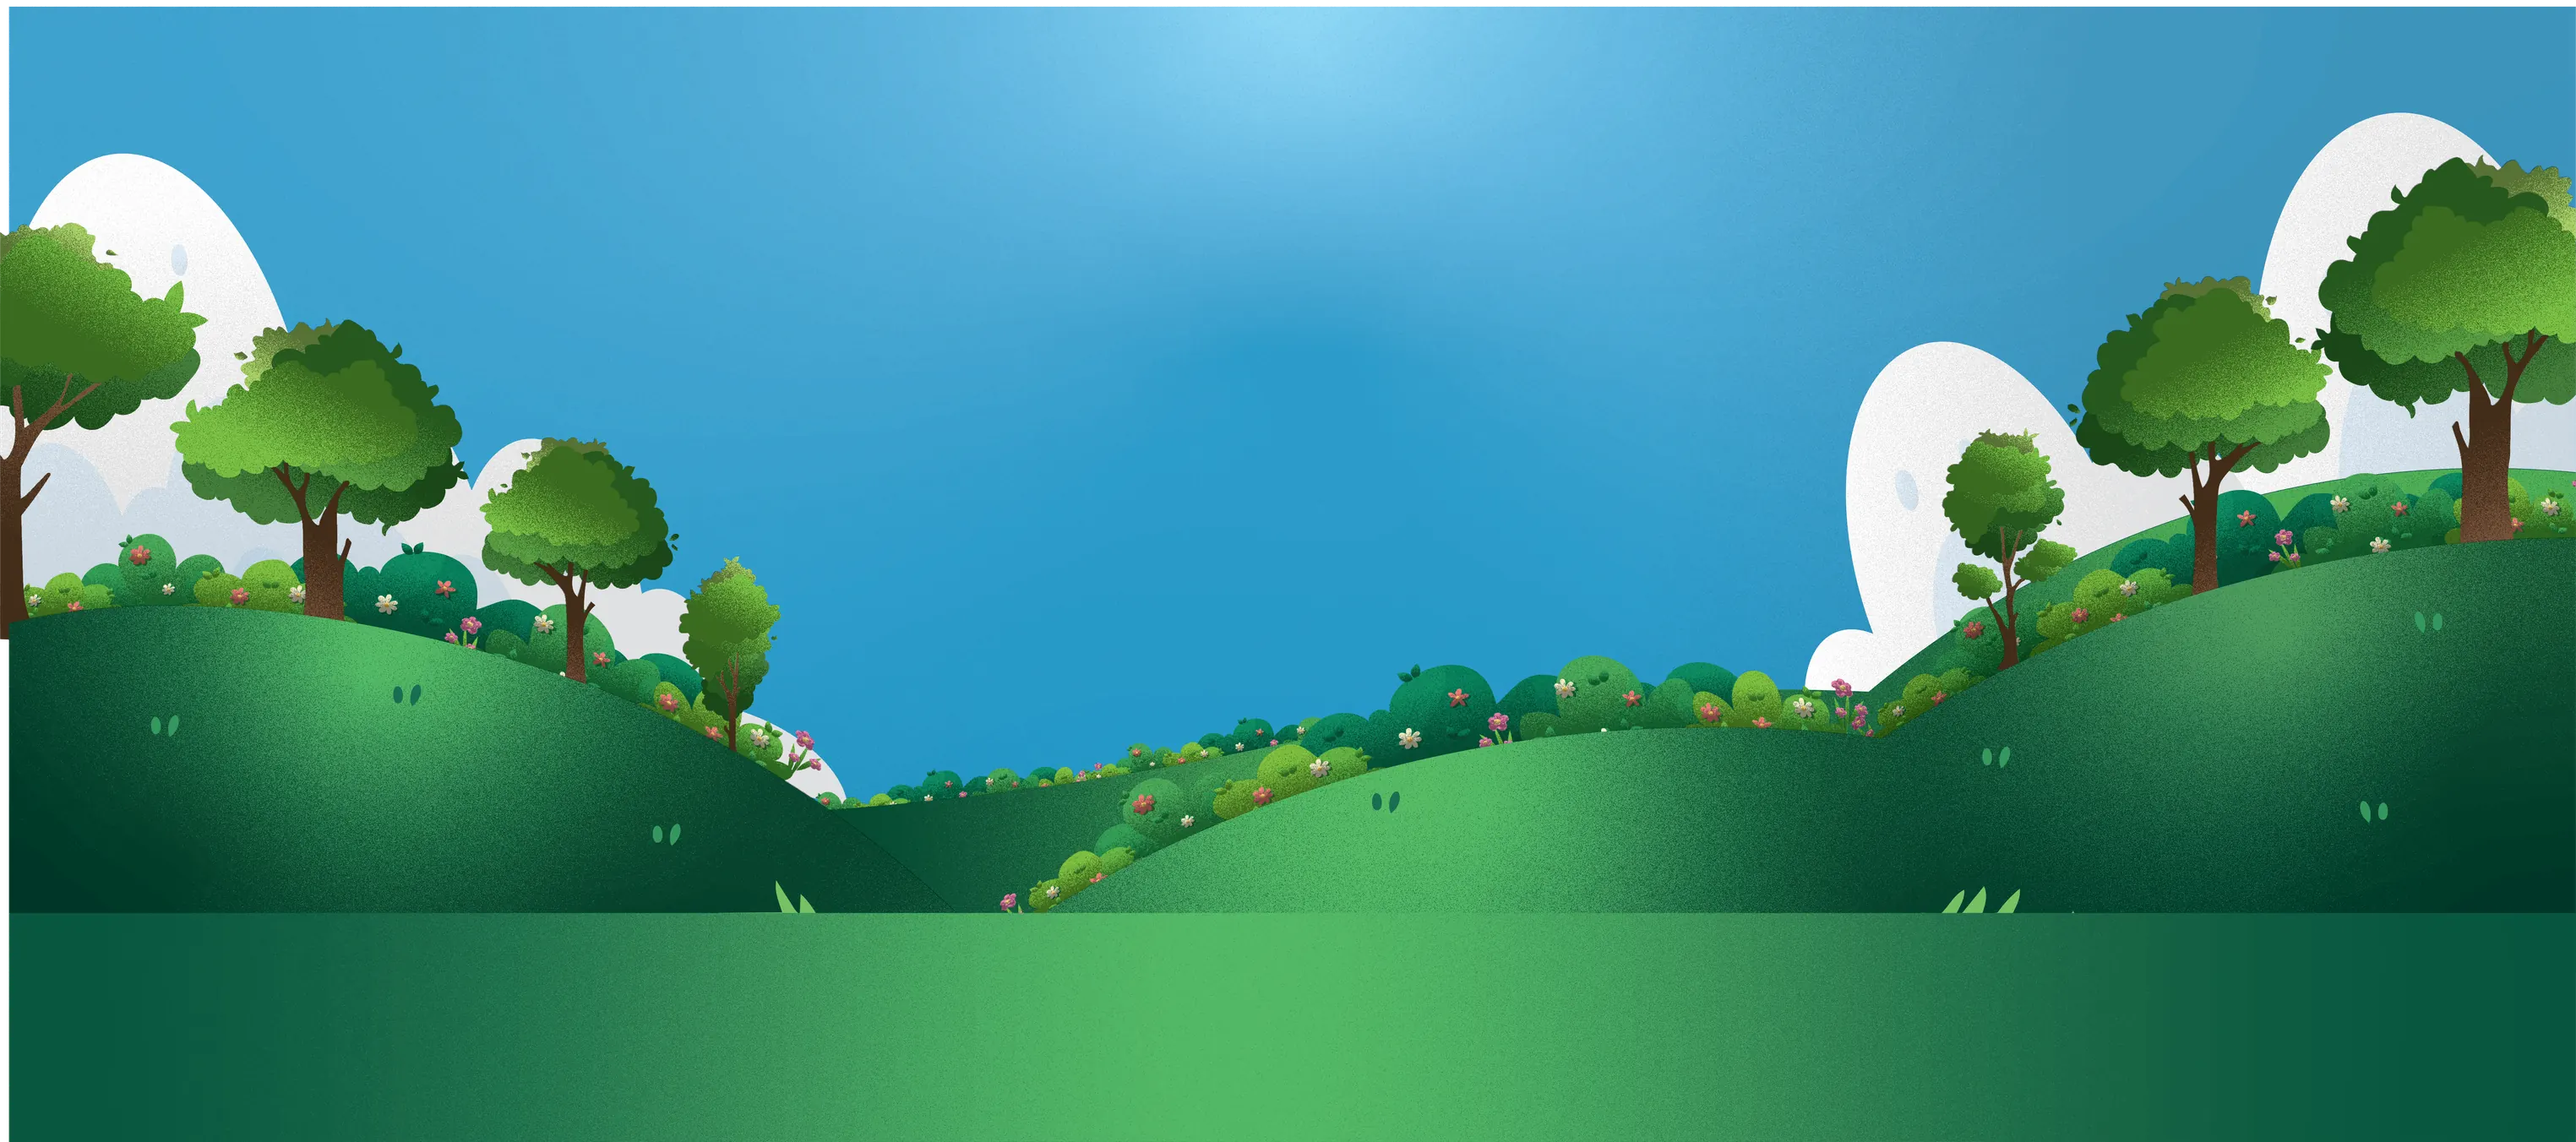
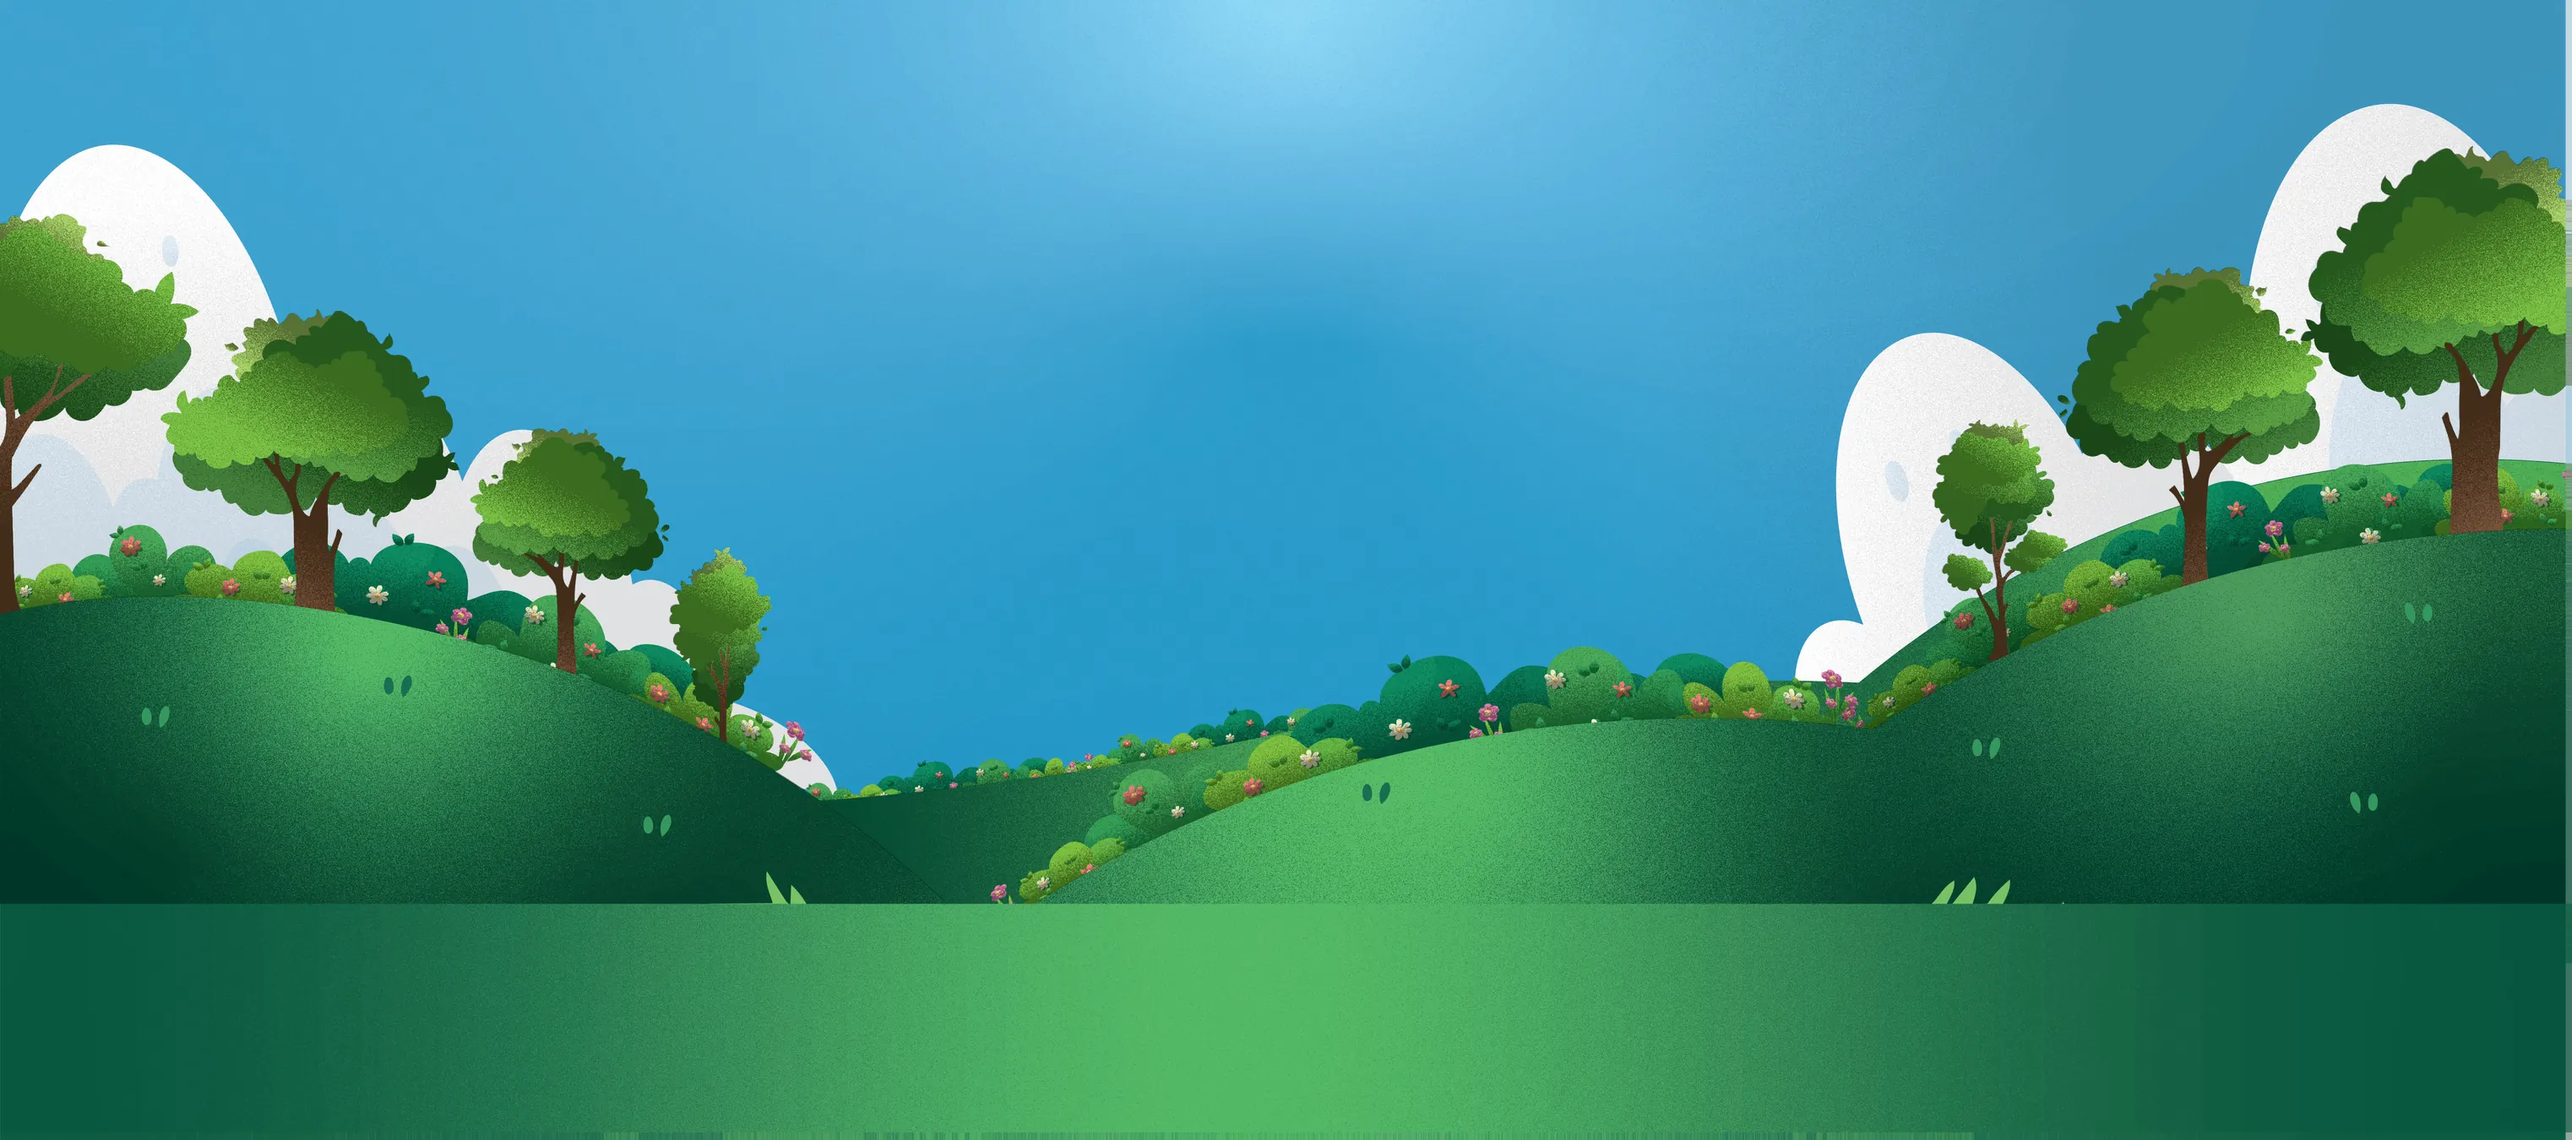
Add turbines and stamp hover to the speaker scene

diff --git a/src/components/GuestScene.jsx b/src/components/GuestScene.jsx
@@ -4,19 +4,27 @@ const LAYERS = [
   { name: 'cloud-l', x: 6.96, y: -9.63, w: 27.17, kind: 'cloud' },
   { name: 'cloud-r', x: 66.44, y: -5.26, w: 22.94, kind: 'cloud' },
   { name: 'frame', x: 32.12, y: 9.85, w: 35.76, kind: 'rise' },
-  { name: 'stamp-1', x: -9.13, y: 16.3, w: 22.75, kind: 'stamp', rot: -8, alt: 'คุณใบตองในชุดเสื้อกั๊กสีขาวกับกางเกงขากว้าง' },
-  { name: 'stamp-2', x: 8.54, y: 1.7, w: 22.83, kind: 'stamp', rot: 6, alt: 'คุณใบตองในชุดไทยประยุกต์' },
+  { name: 'stamp-1', x: -9.13, y: 16.31, w: 22.75, kind: 'stamp', rot: -8, alt: 'คุณใบตองในชุดเสื้อกั๊กสีขาวกับกางเกงขากว้าง' },
+  { name: 'stamp-2', x: 8.52, y: 1.72, w: 22.83, kind: 'stamp', rot: 6, alt: 'คุณใบตองในชุดไทยประยุกต์' },
   { name: 'stamp-3', x: 28.9, y: 20.3, w: 17.63, kind: 'stamp', rot: -6, alt: 'คุณใบตองถ่ายเซลฟี่ข้างรูปปั้นสีทอง' },
-  { name: 'stamp-4', x: 56.42, y: 13.78, w: 14.11, kind: 'stamp', rot: 5, alt: 'คุณใบตองนั่งเท้าคางในเสื้อไหมพรม' },
-  { name: 'stamp-5', x: 72.35, y: 31.7, w: 16.13, kind: 'stamp', rot: -5, alt: 'คุณใบตองนั่งพักบนสนามหญ้า' },
-  { name: 'stamp-6', x: 89, y: 15.56, w: 18.38, kind: 'stamp', rot: 7, alt: 'คุณใบตองวิ่งในชุดสีขาว' },
+  { name: 'stamp-4', x: 56.44, y: 13.78, w: 14.11, kind: 'stamp', rot: 5, alt: 'คุณใบตองนั่งเท้าคางในเสื้อไหมพรม' },
+  { name: 'stamp-5', x: 72.35, y: 31.65, w: 16.13, kind: 'stamp', rot: -5, alt: 'คุณใบตองนั่งพักบนสนามหญ้า' },
+  { name: 'stamp-6', x: 89.01, y: 15.52, w: 18.38, kind: 'stamp', rot: 7, alt: 'คุณใบตองวิ่งในชุดสีขาว' },
   { name: 'name', x: 33.83, y: 16.3, w: 11.87, kind: 'pop', alt: 'วิทยากร คุณใบตอง จรีรัตน์ เพชรโสม' },
   { name: 'title', x: 53.79, y: 66.15, w: 12.78, kind: 'pop', alt: 'Miss Earth Fire 2021' },
-  { name: 'portrait', x: 41.18, y: 5.33, w: 18.6, kind: 'rise', alt: 'คุณใบตอง จรีรัตน์ เพชรโสม ในชุดประกวด Miss Earth Thailand 2021' },
+  { name: 'portrait', x: 41.19, y: 5.37, w: 18.6, kind: 'rise', alt: 'คุณใบตอง จรีรัตน์ เพชรโสม ในชุดประกวด Miss Earth Thailand 2021' },
   { name: 'bush-1', x: 30.21, y: 83.7, w: 13.43, kind: 'bush' },
   { name: 'bush-2', x: 53.2, y: 80.89, w: 17.87, kind: 'bush' },
   { name: 'bush-3', x: 67.03, y: 73.63, w: 39.47, kind: 'bush' },
   { name: 'bush-4', x: -10.57, y: 68.44, w: 36.47, kind: 'bush' },
+]
+
+// กังหันลม: x / y คือจุดกึ่งกลางใบพัด, hill คือเนินกับพุ่มไม้จากพื้นหลังที่ตัดมาบังเสากังหัน
+const TURBINES = [
+  { id: 'a', x: 83.06, y: 22.54, rotor: 8.7, tower: 1.48, hill: { x: 78.41, y: 12.04, w: 9.31 }, speed: 9 },
+  { id: 'b', x: 67.82, y: 46.04, rotor: 5.68, tower: 0.96, hill: { x: 64.67, y: 38.93, w: 6.31 }, speed: 7 },
+  { id: 'c', x: 52.27, y: 49.17, rotor: 5.68, tower: 0.96, hill: { x: 49.11, y: 42.06, w: 6.31 }, speed: 8 },
+  { id: 'd', x: 32.45, y: 55.3, rotor: 5.68, tower: 0.96, hill: { x: 29.29, y: 48.19, w: 6.31 }, speed: 6.5 },
 ]
 
 export default function GuestScene() {
@@ -24,6 +32,31 @@ export default function GuestScene() {
     <div className="guest reveal" role="group" aria-label="วิทยากร คุณใบตอง จรีรัตน์ เพชรโสม">
       <div className="guest__canvas">
         <img className="guest__bg" src="./images/guest-bg.webp" alt="" width="3045" height="1350" loading="lazy" />
+        {TURBINES.map((t) => (
+          <div key={t.id}>
+            <img
+              className="turbine__tower"
+              src="./images/turbine-tower.webp"
+              alt=""
+              loading="lazy"
+              style={{ left: `${t.x}%`, top: `${t.y}%`, width: `${t.tower}%` }}
+            />
+            <img
+              className="turbine__rotor"
+              src="./images/guest-rotor.webp"
+              alt=""
+              loading="lazy"
+              style={{ left: `${t.x}%`, top: `${t.y}%`, width: `${t.rotor}%`, animationDuration: `${t.speed}s` }}
+            />
+            <img
+              className="guest__hill"
+              src={`./images/guest-hill-${t.id}.webp`}
+              alt=""
+              loading="lazy"
+              style={{ left: `${t.hill.x}%`, top: `${t.hill.y}%`, width: `${t.hill.w}%` }}
+            />
+          </div>
+        ))}
         {LAYERS.map((l, i) => (
           <img
             key={l.name}

diff --git a/src/styles.css b/src/styles.css
@@ -937,12 +937,41 @@ a {
   height: 100%;
 }
 
+.guest__hill {
+  position: absolute;
+  height: auto;
+  max-width: none;
+}
+
+.guest__canvas img {
+  pointer-events: none;
+}
+
 .guest__layer {
   position: absolute;
   height: auto;
+  max-width: none;
   transition:
     opacity 0.8s ease var(--d),
-    transform 0.9s cubic-bezier(0.2, 0.8, 0.2, 1) var(--d);
+    transform 0.9s cubic-bezier(0.2, 0.8, 0.2, 1) var(--d),
+    scale 0.35s cubic-bezier(0.2, 0.8, 0.2, 1),
+    translate 0.35s cubic-bezier(0.2, 0.8, 0.2, 1),
+    rotate 0.35s cubic-bezier(0.2, 0.8, 0.2, 1),
+    filter 0.35s ease;
+}
+
+/* stamp: ชี้แล้วยกขึ้นมาข้างหน้า */
+.guest__canvas .guest__layer--stamp {
+  pointer-events: auto;
+  cursor: zoom-in;
+}
+
+.guest__layer--stamp:hover {
+  z-index: 5;
+  scale: 1.08;
+  translate: 0 -3%;
+  rotate: -2deg;
+  filter: drop-shadow(0 18px 24px rgba(7, 26, 61, 0.35));
 }
 
 .guest:not(.is-visible) .guest__layer {
@@ -969,19 +998,8 @@ a {
   transform: translateY(18%);
 }
 
-/* ลอยเบา ๆ หลังโผล่มาแล้ว */
-.guest.is-visible .guest__layer--stamp {
-  animation: guest-float 6s ease-in-out calc(var(--d) + 1s) infinite alternate;
-}
-
 .guest.is-visible .guest__layer--cloud {
   animation: guest-drift 14s ease-in-out 1s infinite alternate;
-}
-
-@keyframes guest-float {
-  to {
-    transform: translateY(-3%) rotate(1.5deg);
-  }
 }
 
 @keyframes guest-drift {
